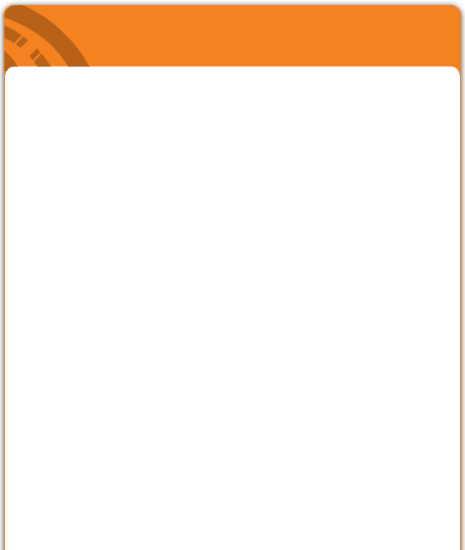
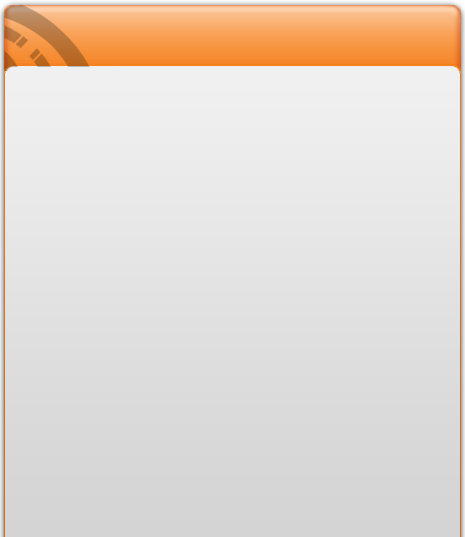
Fondo para contactenos y eliminacion de imagenes sobrantes

diff --git a/public/stylesheets/application.css b/public/stylesheets/application.css
@@ -99,7 +99,7 @@ a {
 #contact-form {
 	background: url("../images/bg_contacto.png") no-repeat scroll 0 0 transparent;
   float: left;
-  height: 550px;
+  height: 537px;
   margin-right: 30px;
   margin-top: 20px;
   width: 465px;
